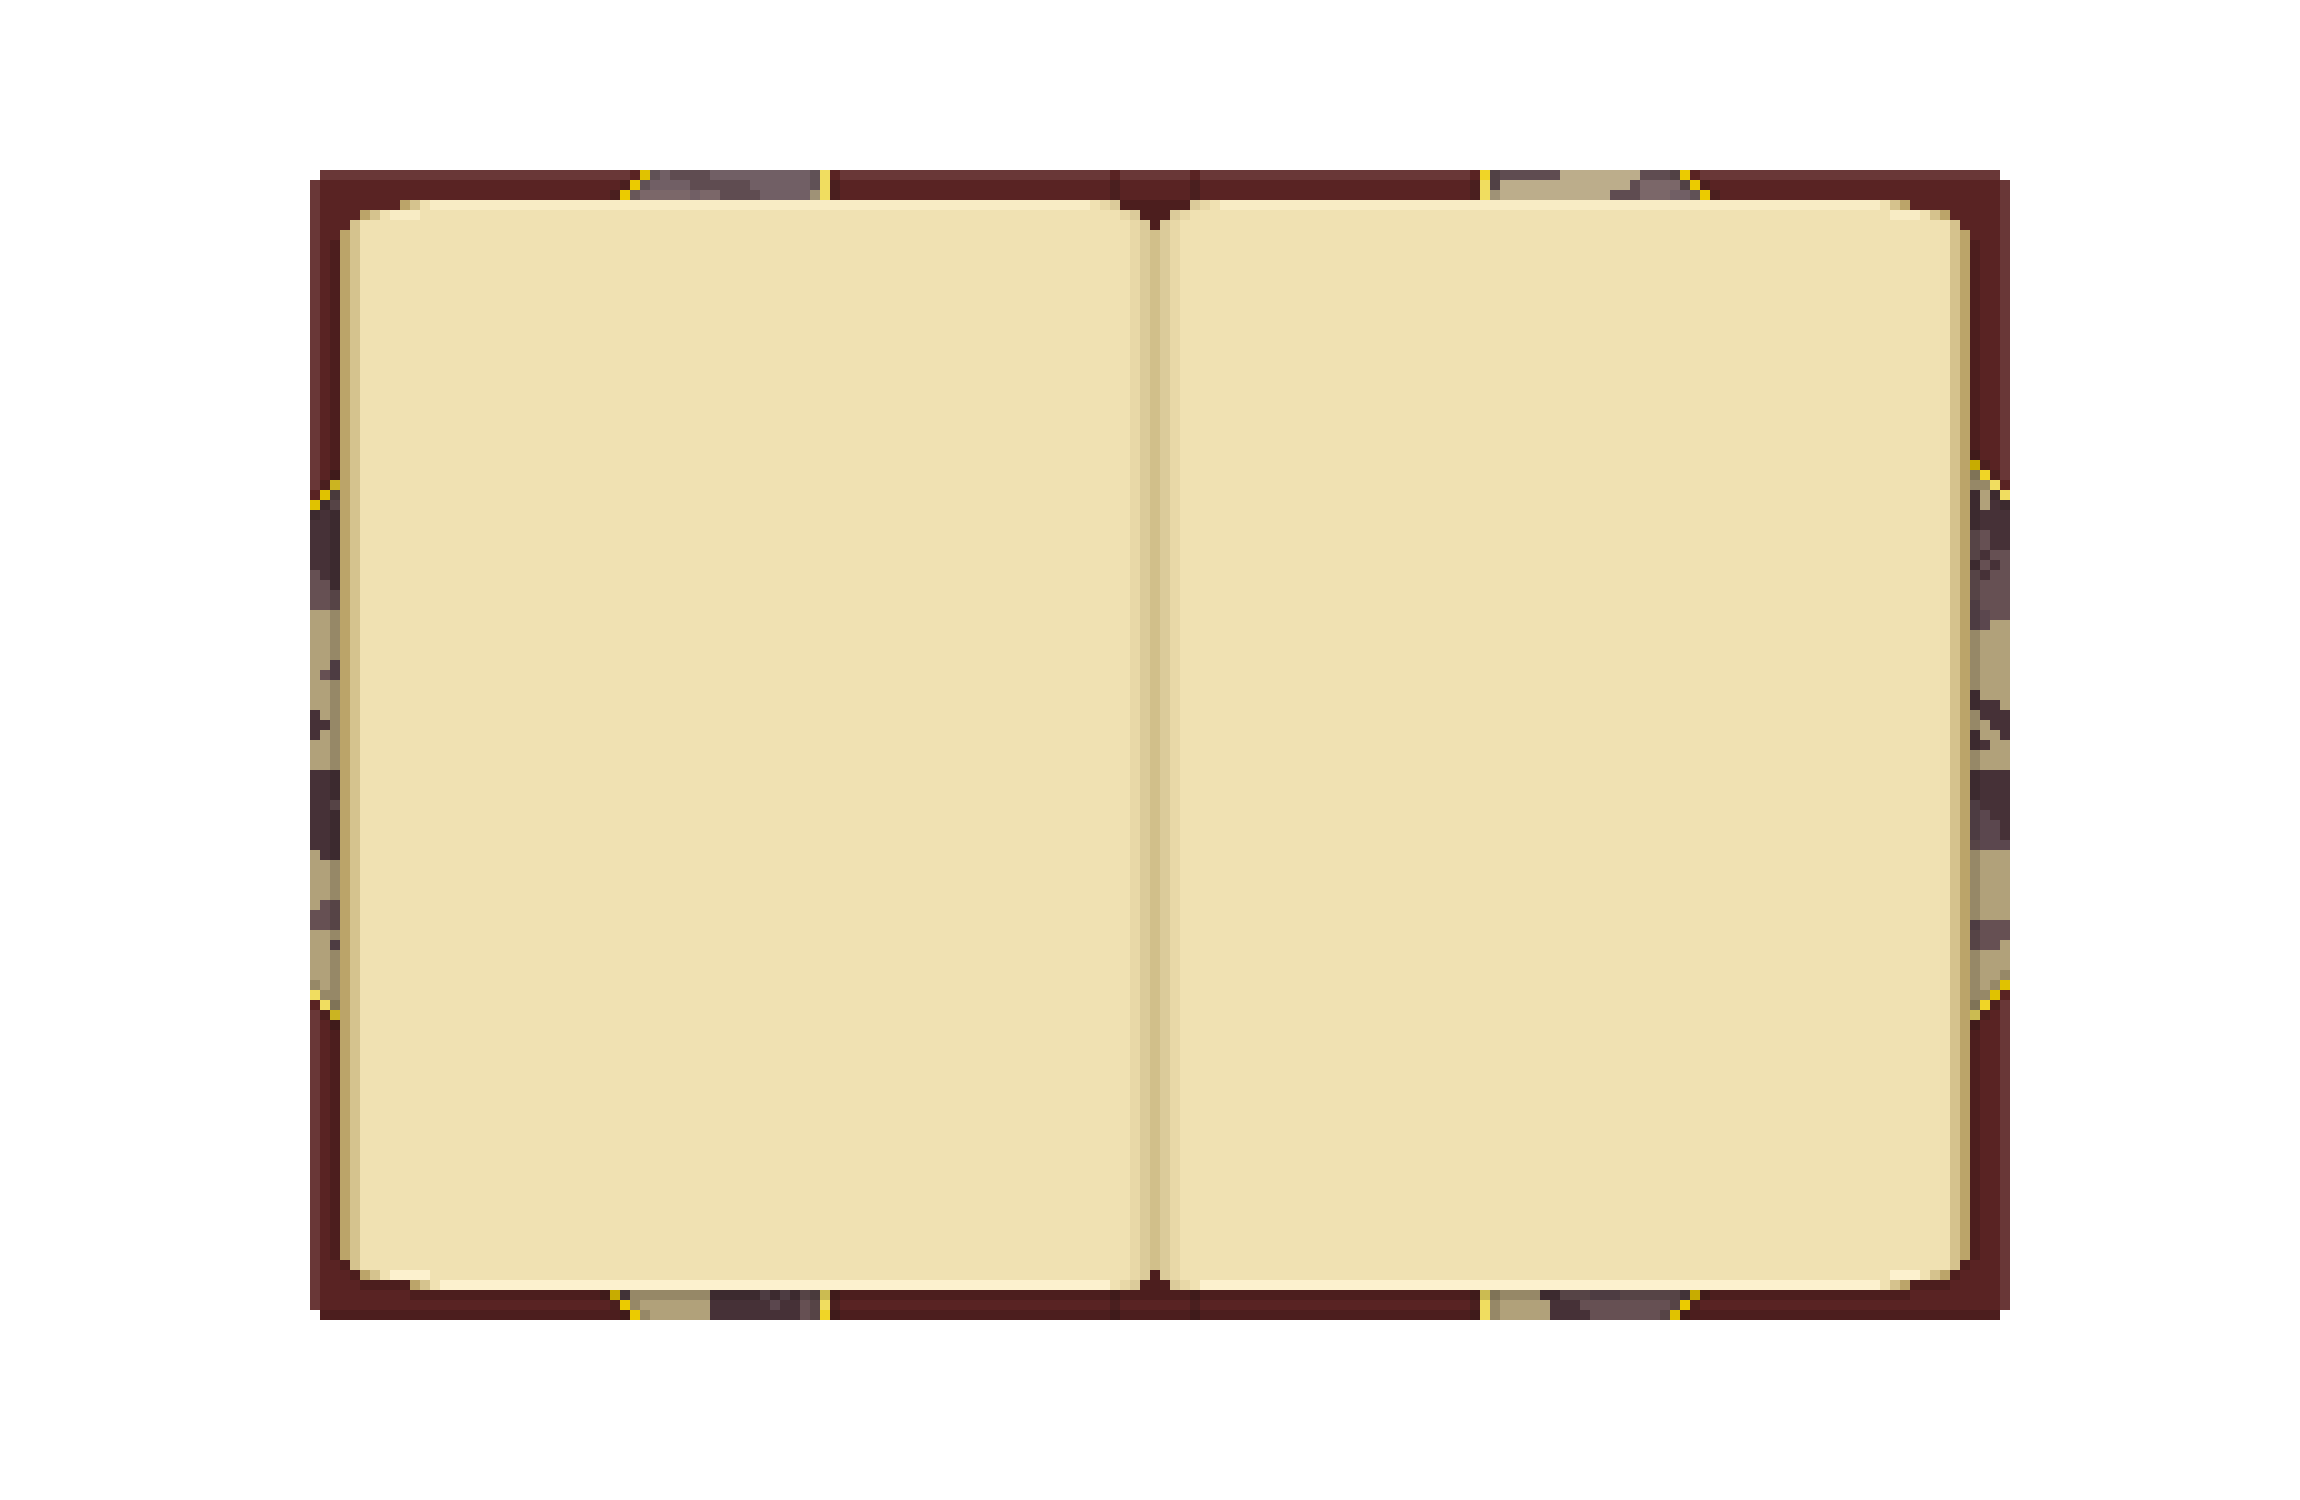
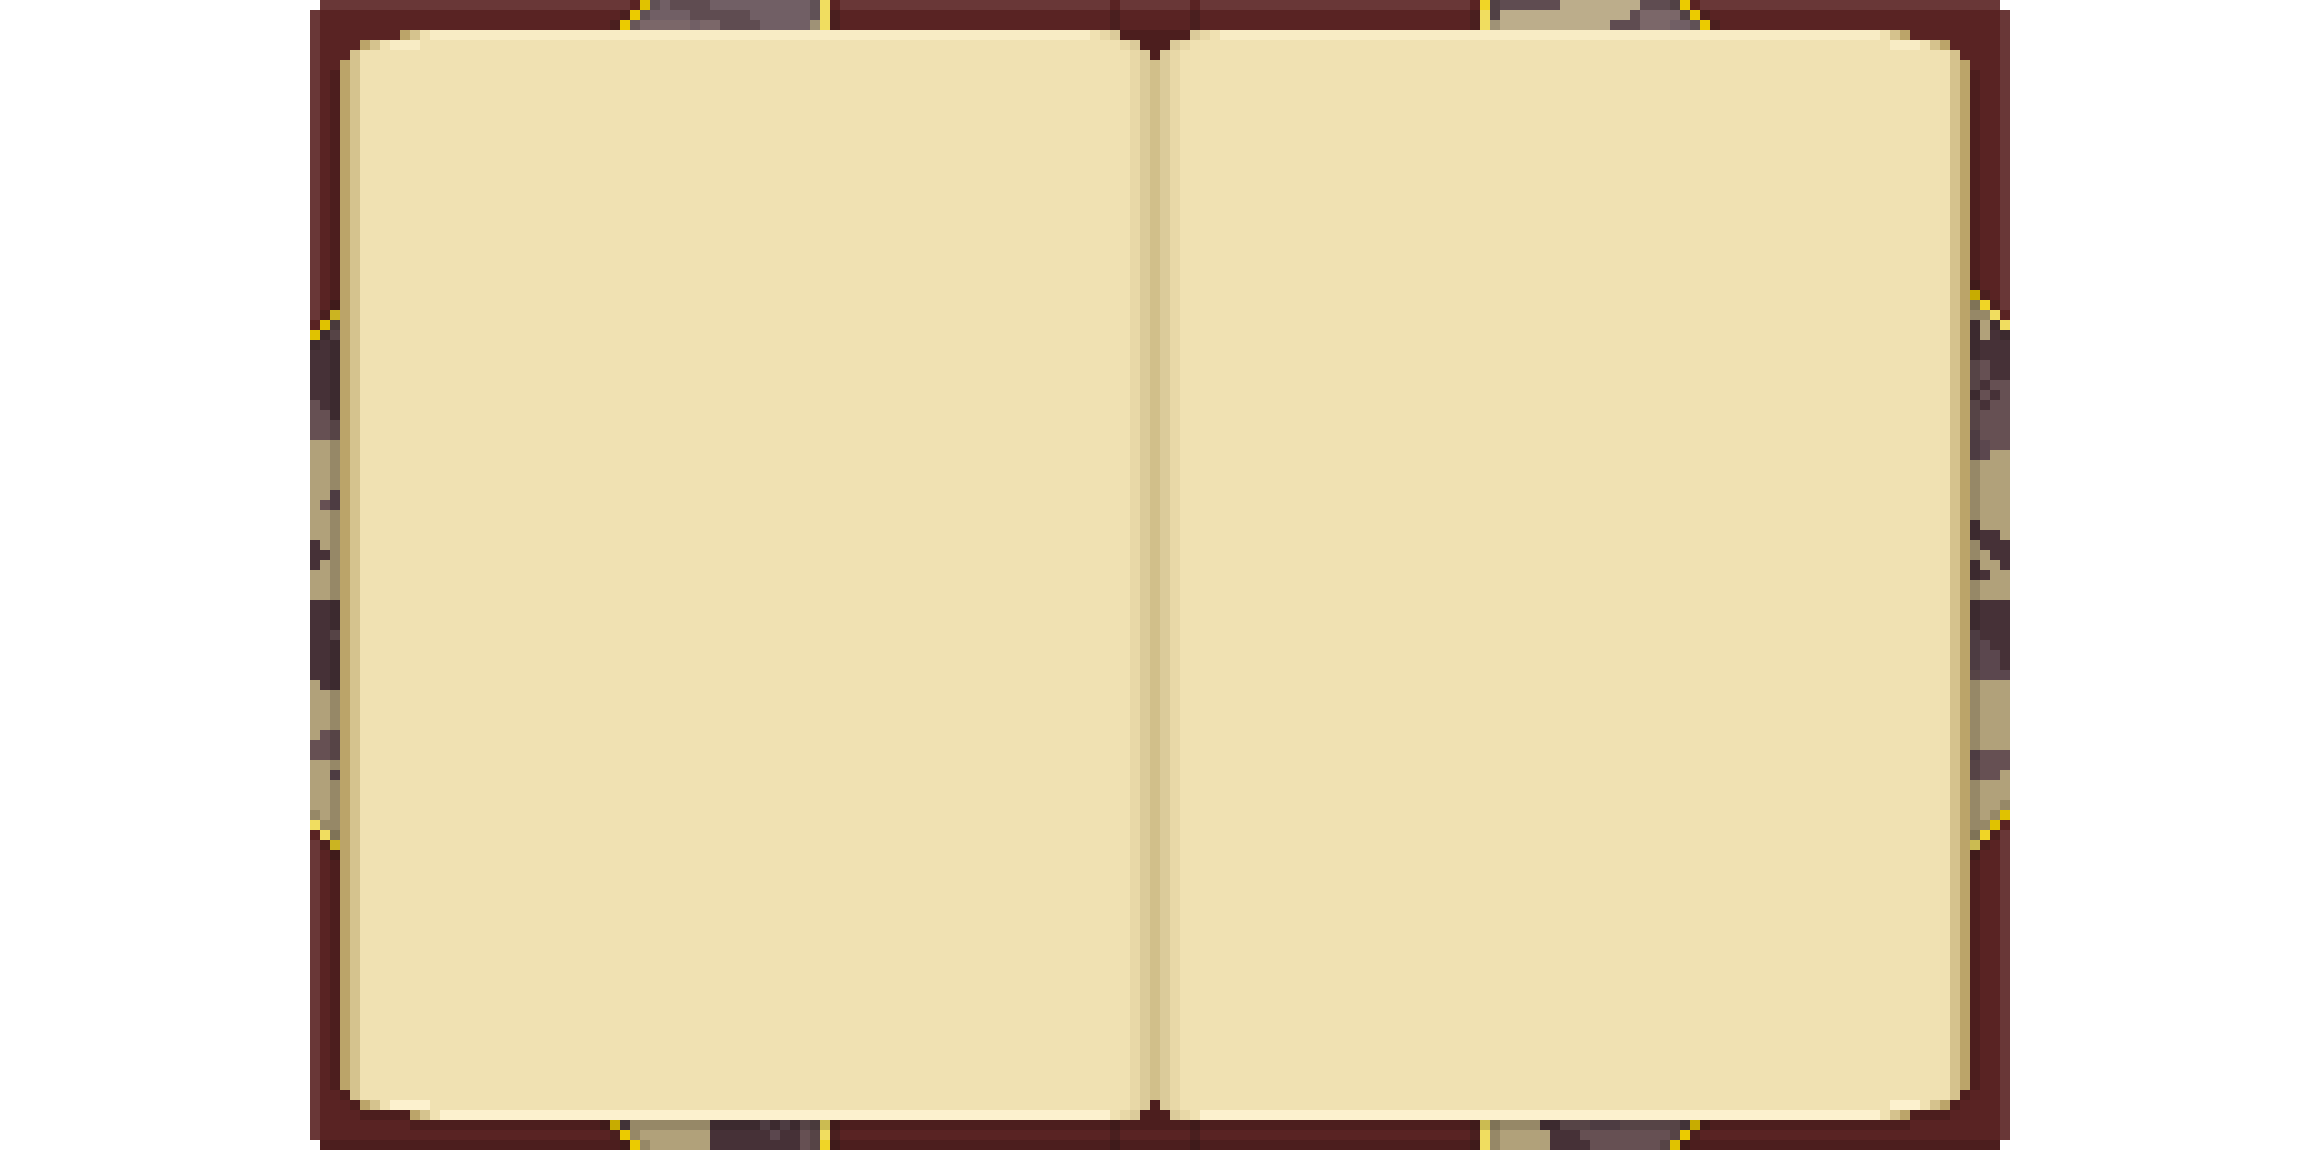
update

diff --git a/hjemmeside/templates/galleri.php b/hjemmeside/templates/galleri.php
@@ -22,10 +22,10 @@
   width:100%;
 }
 
-.wood-frame-content{
+.wood-frame-galleri-content{
   background:white url("../images/wood-frame/wood-frame-middle.png") repeat-y center;
   background-size: 100%;
-  padding: 1px 4rem 1px 4rem;
+  padding: 1px 0rem 1px 0rem;
 }
 /* WOOD FRAME STYLE END */
 
@@ -49,9 +49,9 @@
 
 .galleri{
     background:transparent url("../images/bog.png") no-repeat center;
-    background-size:contain;
+    background-size:115vw;
     height: 58vw;
-    padding: 0 15%;
+    display:flex
 }
 
 
@@ -64,7 +64,7 @@
 .wrapper{
   display: grid;
   align-items: center;
-  width:65vw;
+  width:80vw;
 }
 
 .grid{
@@ -218,6 +218,24 @@
   to {opacity: 1}
 }
 
+.galleri-responsive{
+    background:transparent url("../images/book-half.png") no-repeat center;
+    background-size:contain;
+    height: 135vw;
+    padding: 0 15%;
+    display: none;
+}
+
+
+
+.galleri .card{
+  background-color: transparent;
+  border:none;
+}
+
+}
+
+
 @media (max-width: 979px) {
   /* Selectors and styles affecting screens UP TO 979px (Desktop) */
 }
@@ -227,8 +245,15 @@
 
 }
 
-@media (max-width: 480px) {
+@media (max-width: 600px) {
     /* Selectors and styles affecting screens UP TO 480px (Phone) */
+.galleri{
+  display:none;
+}
+.galleri-responsive{
+  display: flex;
+}
+
 }
 /* GALLERI SIDE END */
 
@@ -256,9 +281,9 @@
 
       <img src="../images/wood-frame/wood-frame-top.png" alt="Wood frame top">
 
-      <div class="wood-frame-content">
+      <div class="wood-frame-galleri-content">
                    <img src="../images/titler/galleri.png" alt="Opret karakter">
-          <article class="galleri d-flex justify-content-center">
+          <article class="galleri justify-content-center align-content-center">
       <!-- CONTENT HERE -->
 
 
@@ -303,11 +328,63 @@
 
 
 
-<!-- BOOTSTRAP MODAL END -->
-
 
       <!-- CONTENT HERE -->
           </article>
+
+
+       <article class="galleri-responsive justify-content-center align-content-center">
+      <!-- CONTENT HERE -->
+
+
+      <div class="wrapper">
+        <div id="carouselExampleInterval2" class="carousel slide" data-ride="carousel" style="fixed">
+          <div class="carousel-inner">
+            <div class="carousel-item active" data-interval="false">
+             <div class="d-flex flex-column">
+                <img src="../images/galleri-img/DSC06880.jpg" alt="" class="top">
+                <img src="../images/galleri-img/DSC06910.jpg" alt="">
+              </div>
+            </div>
+            <div class="carousel-item" data-interval="false">
+            <div class="d-flex flex-column">
+                <img src="../images/galleri-img/DSC06948.jpg" alt="" class="top">
+                <img src="../images/galleri-img/DSC06969.jpg" alt="">
+              </div>
+            </div>
+            <div class="carousel-item" data-interval="false">
+            <div class="d-flex flex-column">
+                <img src="../images/galleri-img/DSC06951.jpg" alt="" class="top">
+                <img src="../images/galleri-img/DSC06970.jpg" alt="">
+              </div>
+            </div>
+            <div class="carousel-item" data-interval="false">
+            <div class="d-flex flex-column">
+                <img src="../images/galleri-img/DSC06975.jpg" alt="" class="top">
+                <img src="../images/galleri-img/DSC06977.jpg" alt="">
+              </div>
+            </div>
+            <div class="carousel-item" data-interval="false">
+            <div class="d-flex flex-column">
+                <img src="../images/galleri-img/DSC06999.jpg" alt="" class="top">
+                <img src="../images/galleri-img/DSC07014.jpg" alt="">
+              </div>
+            </div>
+          </div>
+          <a class="carousel-control-prev" href="#carouselExampleInterval2" role="button" data-slide="prev">
+            <span class="carousel-control-prev-icon" aria-hidden="true"></span>
+            <span class="sr-only">Previous</span>
+          </a>
+          <a class="carousel-control-next" href="#carouselExampleInterval2" role="button" data-slide="next">
+            <span class="carousel-control-next-icon" aria-hidden="true"></span>
+            <span class="sr-only">Next</span>
+          </a>
+        </div>
+      </div>
+
+      <!-- CONTENT HERE -->
+          </article>
+          
       </div>
 
       <img src="../images/wood-frame/wood-frame-bottom.png" alt="Wood frame bottom">
